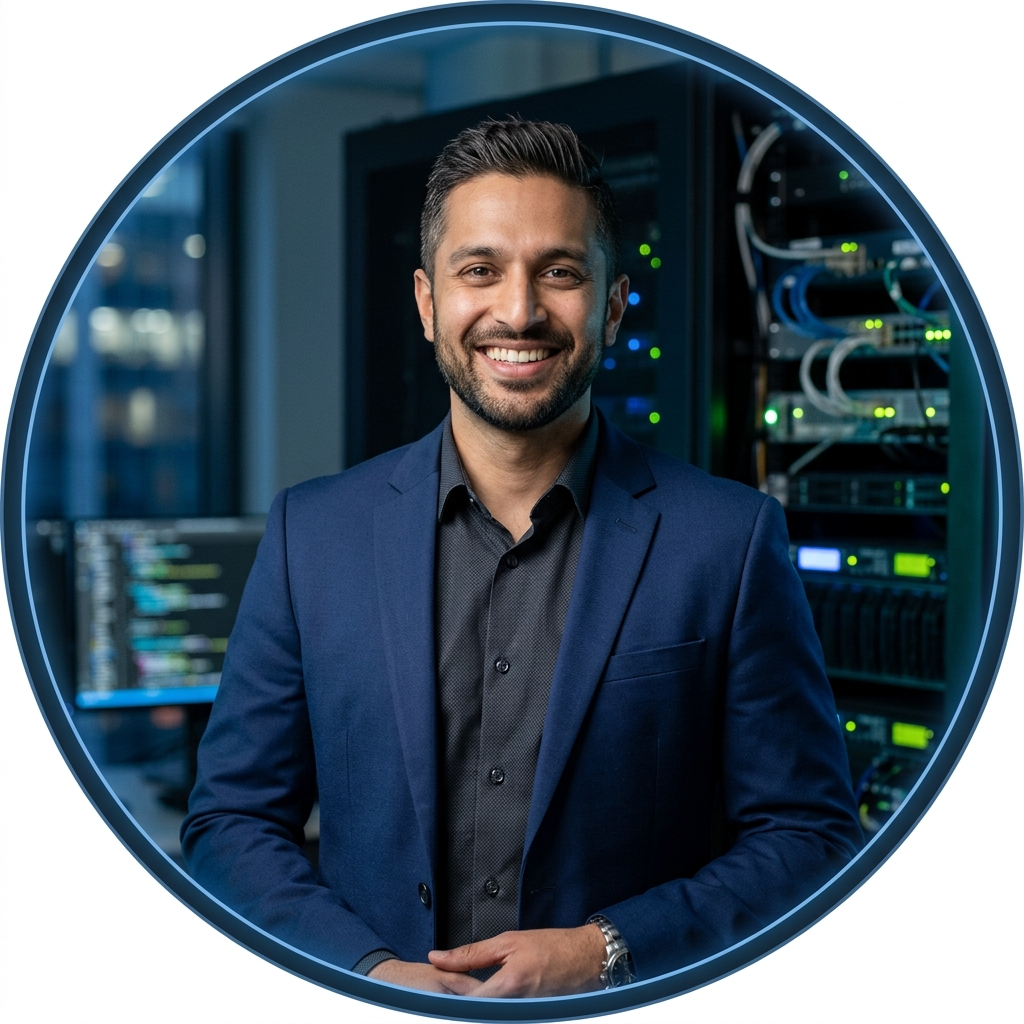
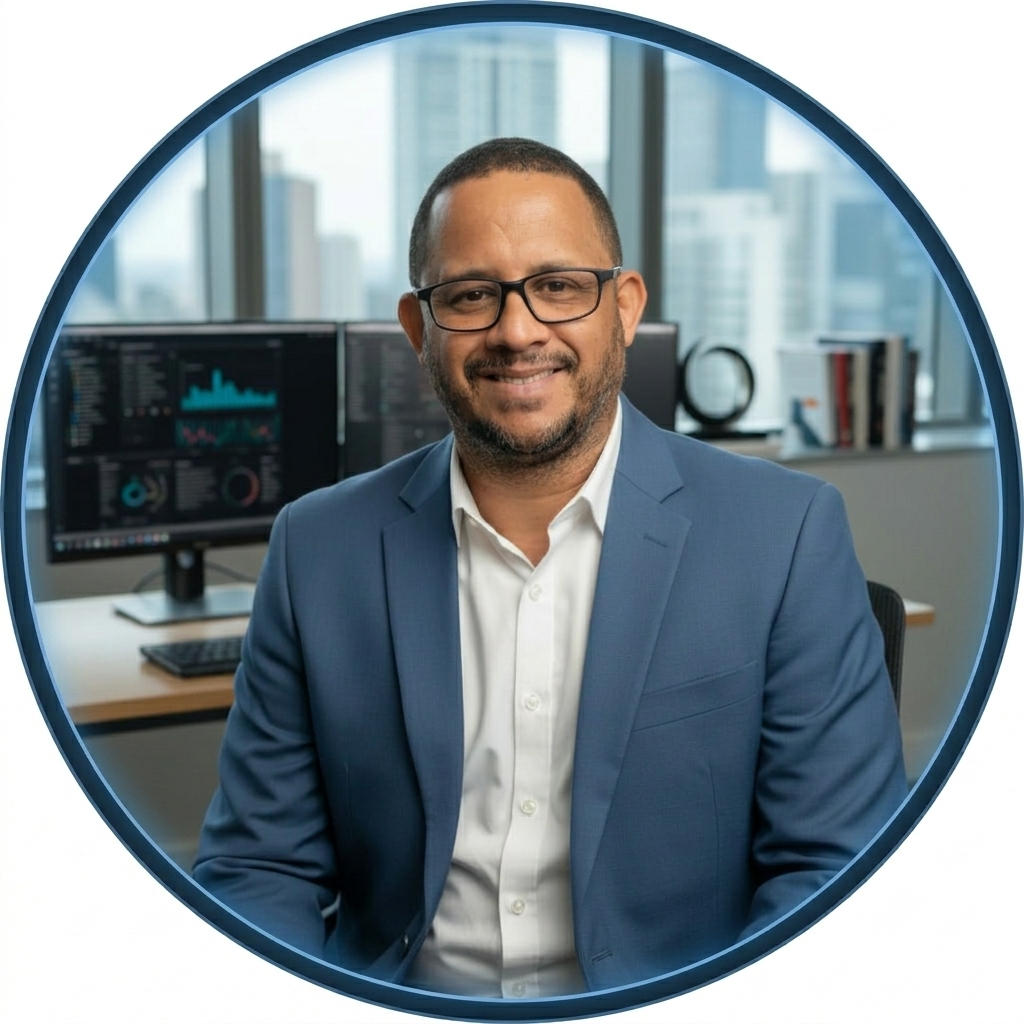
feat: tema claro por padrao e css otimizado

diff --git a/style.css b/style.css
@@ -48,6 +48,8 @@ body.light-theme {
 
 html {
     scroll-behavior: smooth;
+    overflow-x: hidden !important;
+    width: 100%;
 }
 
 body {
@@ -55,7 +57,8 @@ body {
     color: var(--text-primary);
     font-family: var(--font-sans);
     line-height: 1.6;
-    overflow-x: hidden;
+    overflow-x: hidden !important;
+    width: 100%;
     position: relative;
 }
 
@@ -134,7 +137,7 @@ body {
     max-width: 1400px;
     margin: 0 auto;
     padding: 3rem 2rem;
-    min-h: calc(100vh - 4rem);
+    min-height: calc(100vh - 4rem);
 }
 
 /* Sidebar / Profile Card styling */
@@ -1670,37 +1673,41 @@ body.light-theme .btn-submit-comment {
 /* Responsive Design / Mobile Version */
 @media screen and (max-width: 991px) {
     .app-container {
-        grid-template-columns: 1fr;
-        padding: 1rem;
-        gap: 1.5rem;
+        display: flex !important;
+        flex-direction: column !important;
+        padding: 1rem !important;
+        gap: 1.5rem !important;
     }
     
     .profile-sidebar {
-        position: static;
-        width: 100%;
-        padding: 1.5rem;
+        position: relative !important;
+        width: 100% !important;
+        max-width: 100% !important;
+        padding: 1.5rem !important;
+        top: 0 !important;
     }
 
     .navigation-menu {
-        flex-direction: row;
-        overflow-x: auto;
-        padding-bottom: 0.5rem;
-        -webkit-overflow-scrolling: touch;
-        scroll-snap-type: x mandatory;
+        flex-direction: row !important;
+        flex-wrap: wrap !important;
+        justify-content: center !important;
+        overflow-x: visible !important;
+        gap: 0.5rem !important;
     }
 
     .nav-item {
-        flex: 0 0 auto;
-        scroll-snap-align: start;
-        white-space: nowrap;
+        flex: 1 1 auto !important;
+        min-width: 140px !important;
+        text-align: center !important;
+        white-space: normal !important;
     }
 
     .section-title {
-        font-size: 1.8rem;
+        font-size: 1.5rem !important;
     }
     
     .stats-grid {
-        grid-template-columns: repeat(2, 1fr);
+        grid-template-columns: 1fr 1fr !important;
     }
 }
 

diff --git a/script.js b/script.js
@@ -9,12 +9,12 @@ document.addEventListener('DOMContentLoaded', () => {
     if (themeToggleBtn && themeIcon) {
         // Check saved preference
         const savedTheme = localStorage.getItem('portfolio-theme');
-        if (savedTheme === 'light') {
-            document.body.classList.add('light-theme');
-            themeIcon.className = 'fas fa-sun';
-        } else {
+        if (savedTheme === 'dark') {
             document.body.classList.remove('light-theme');
             themeIcon.className = 'fas fa-moon';
+        } else {
+            document.body.classList.add('light-theme');
+            themeIcon.className = 'fas fa-sun';
         }
 
         themeToggleBtn.addEventListener('click', () => {

diff --git a/index.html b/index.html
@@ -8,11 +8,11 @@
     <meta name="description" content="Portfólio profissional de Cleber Santos. Especialista em Qlik Sense Cloud, Qlik NPrinting, Qlik Talend, Engenharia de Dados, SQL, APIs e Governança de Dados.">
     <meta name="keywords" content="Qlik Sense, Talend, NPrinting, SQL, API, Data Quality, BI, Engenheiro de Dados, Cleber Santos">
     
-    <link rel="stylesheet" href="style.css?v=2.0">
+    <link rel="stylesheet" href="style.css?v=3.0">
     <link rel="stylesheet" href="https://cdnjs.cloudflare.com/ajax/libs/font-awesome/6.4.0/css/all.min.css">
     <link href="https://fonts.googleapis.com/css2?family=Inter:wght@300;400;500;600;700;800&family=Fira+Code:wght@400;500;600&display=swap" rel="stylesheet">
 </head>
-<body class="antialiased min-h-screen">
+<body class="antialiased min-h-screen light-theme">
 
     <!-- Background Decoration Grid -->
     <div class="bg-grid-overlay"></div>